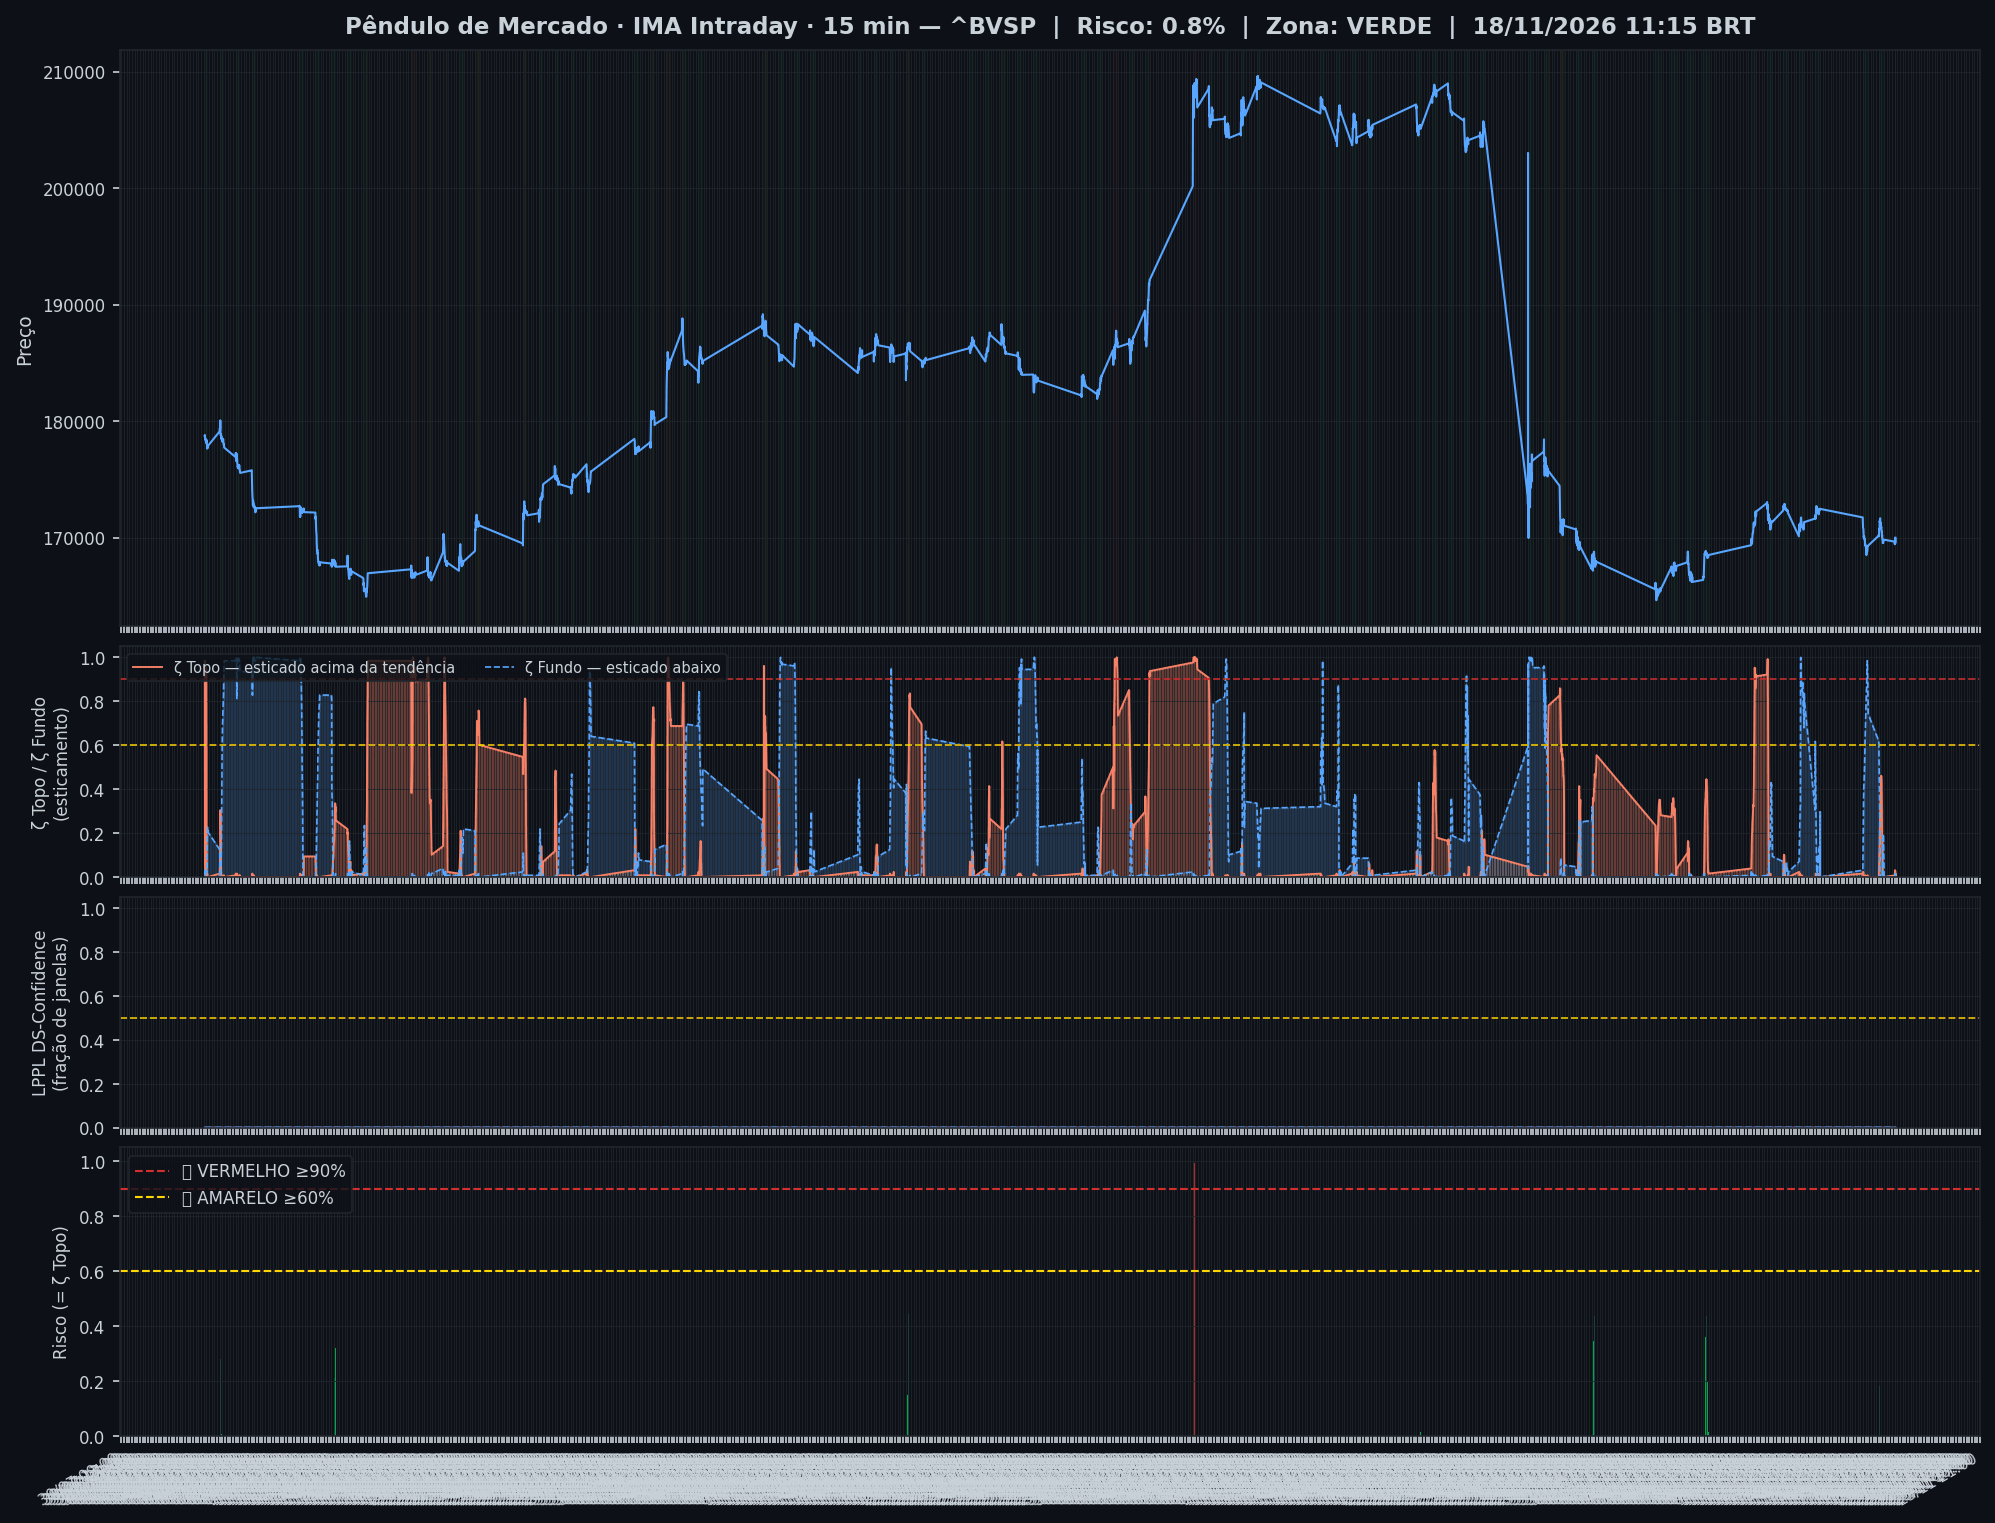
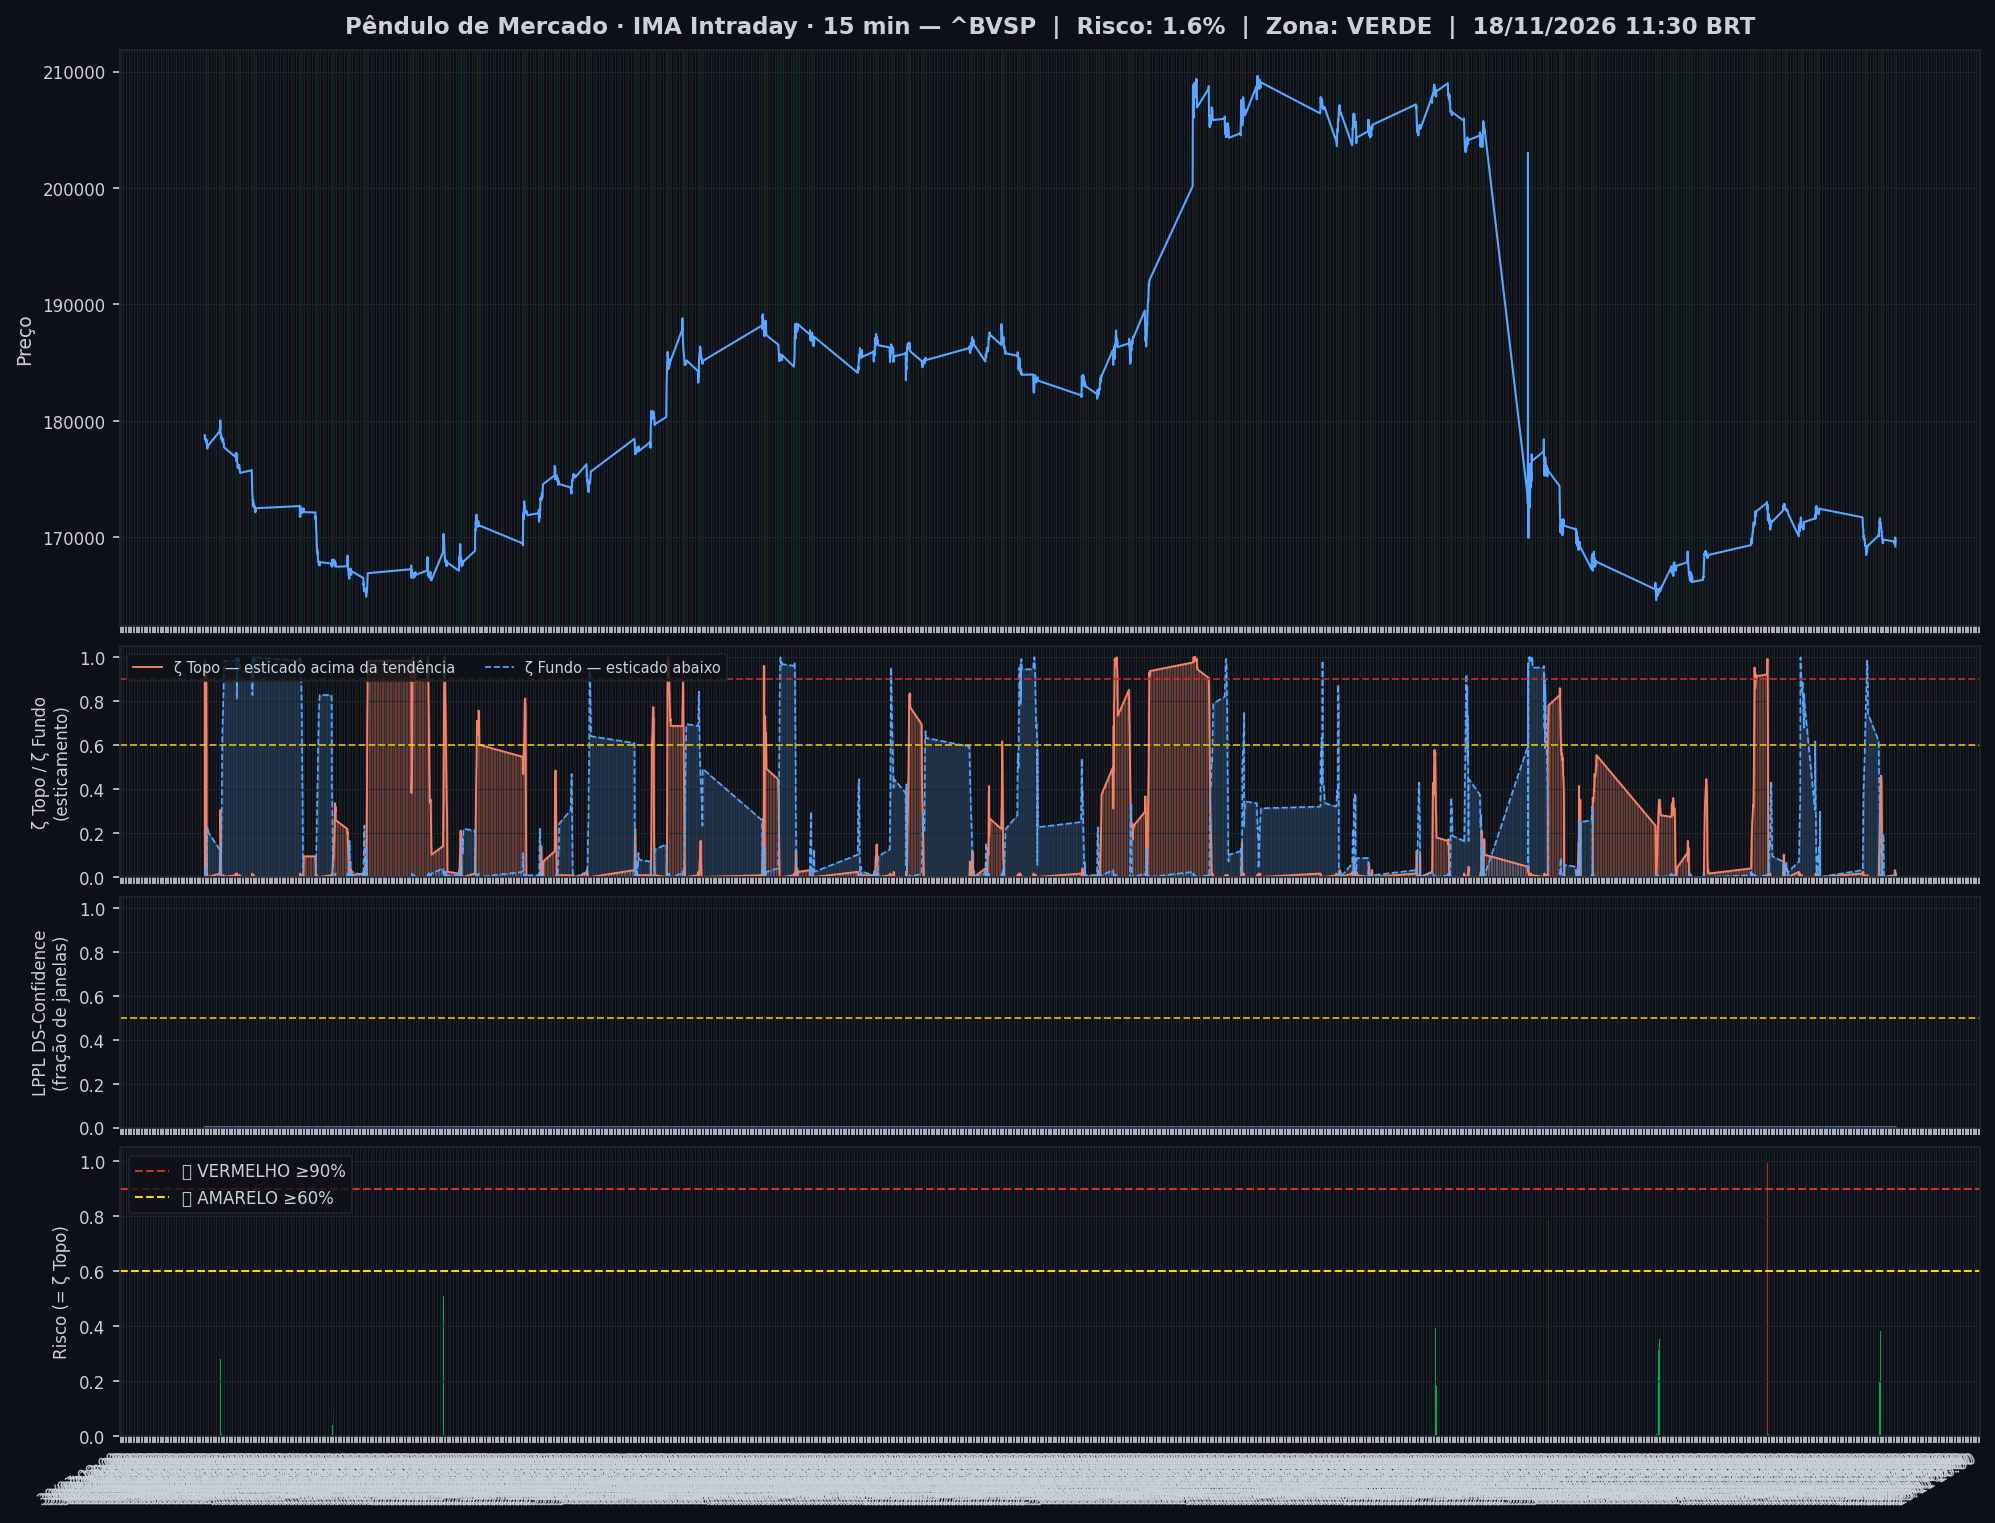
🤖 Auto: Sinal 18/11/2026 11:46

Changed region(s): [[0.0932, 0.432, 0.9634, 0.5863], [0.0311, 0.9258, 0.9945, 0.9875]]

diff --git a/content/intraday/2026-11-18.md b/content/intraday/2026-11-18.md
@@ -1,10 +1,10 @@
 ---
-title: "🟢 Intraday 18/11/2026 11:15 BRT — VERDE"
+title: "🟢 Intraday 18/11/2026 11:30 BRT — VERDE"
 date: 2026-11-18
 tags: [intraday]
 ---
 
-> [!success] Onde o mercado está agora (18/11 11:15, candles de 15 min): **🟢 Calmo**
+> [!success] Onde o mercado está agora (18/11 11:30, candles de 15 min): **🟢 Calmo**
 > `Pânico ◀──────────●──────────▶ Euforia`
 >
 > O Ibovespa está dentro da sua faixa normal, sem excesso para cima nem para baixo.
@@ -20,7 +20,7 @@ tags: [intraday]
 > | 📍 **Sinais** | hoje: nenhum sinal | [abrir](sinais-topo-fundo/) |
 > | 🧪 **Placar ao vivo** | 1 operação(ões), 0 com lucro, soma -0,8% | [abrir](operacoes/) |
 
-> [!success] IMA Intraday · 15 min (18/11 11:15): 🟢 **VERDE** — Risco 1% · ▼ -1 p.p. vs leitura anterior
+> [!success] IMA Intraday · 15 min (18/11 11:30): 🟢 **VERDE** — Risco 2% · ▲ +1 p.p. vs leitura anterior
 > `░░░░░░░░░░░░░░░░░░░░`
 > Preço na faixa normal em torno da tendência.
 
@@ -32,13 +32,13 @@ tags: [intraday]
 >
 > *Leitura educacional baseada em 26 anos de dados, não recomendação. [Como usar](../metodologia/crise#3-como-usar-na-prática).*
 
-| Indicador — IMA Intraday · 15 min (18/11 11:15) | Valor |
+| Indicador — IMA Intraday · 15 min (18/11 11:30) | Valor |
 |---|---|
-| 🔴 ζ Topo — preço esticado acima da tendência | **1%** |
-| 🔵 ζ Fundo — preço esticado abaixo da tendência | 1% |
+| 🔴 ζ Topo — preço esticado acima da tendência | **2%** |
+| 🔵 ζ Fundo — preço esticado abaixo da tendência | 0% |
 | 🫧 LPPL bolha — alta super-exponencial (risco de crash) | 0% |
 | 🫧 LPPL antibolha — queda super-exponencial (risco de repique) | 0% |
-| 📊 Ibovespa | 169.989 pts |
+| 📊 Ibovespa | 169.219 pts |
 
 ![Gráfico do sinal](../graficos/sinal_intraday.png)
 
@@ -46,6 +46,7 @@ tags: [intraday]
 
 | Data | Zona | Evento | Risco | ζ Topo | ζ Fundo | LPPL |
 |---|---|---|---|---|---|---|
+| 2026-11-18 11:30 | 🟢 VERDE |  | **2%** | 2% | 0% | 0% |
 | 2026-11-18 11:15 | 🟢 VERDE |  | **1%** | 1% | 1% | 0% |
 | 2026-11-18 11:00 | 🟢 VERDE |  | **2%** | 2% | 2% | 0% |
 | 2026-11-18 10:45 | 🟢 VERDE |  | **1%** | 1% | 2% | 0% |
@@ -75,52 +76,51 @@ tags: [intraday]
 | 2026-11-17 13:00 | 🟢 VERDE |  | **43%** | 43% | 0% | 0% |
 | 2026-11-17 12:45 | 🟢 VERDE |  | **38%** | 38% | 0% | 0% |
 | 2026-11-17 12:30 | 🟢 VERDE |  | **37%** | 37% | 0% | 0% |
-| 2026-11-17 12:15 | 🟢 VERDE |  | **33%** | 33% | 0% | 0% |
 
 <small>Destaques: 🟡 ≥ 60% · 🔴 ≥ 90% (Risco e ζ Topo) · 🔵 ≥ 60% · 🔪 ≥ 90% (ζ Fundo) · 🫧 ≥ 30% · 🫧🔴 ≥ 50% (LPPL)</small>
 
 ## Monitor Multi-Ativo
 
-**0% dos ativos em tensão** (0🔴 0🟡) · **1 com ζ Fundo alto** — quanto mais ativos disparam juntos, mais confiável o sinal.
+**0% dos ativos em tensão** (0🔴 0🟡) · **2 com ζ Fundo alto** — quanto mais ativos disparam juntos, mais confiável o sinal.
 
 > [!warning] Em destaque no multi-ativo
-> 🔵 **SUZANO S.A.** ζ Fundo 70%
+> 🔵 **PETROBRAS** ζ Fundo 68% · 🔵 **SUZANO S.A.** ζ Fundo 60%
 
 | Zona | Ativo | Setor | ζ Topo | ζ Fundo |
 |---|---|---|---|---|
-| 🟢 | **SUZANO S.A.** | Papel/Celulose | 7.8% | 🔵 **69.5%** |
-| 🟢 | **AMBEV S/A** | Consumo | 0.0% | 56.2% |
-| 🟢 | **PETROBRAS** | Petróleo | 0.0% | 53.9% |
-| 🟢 | **PRIO** | Petróleo | 0.0% | 53.9% |
-| 🟢 | **BRASIL** | Financeiro | 1.6% | 34.4% |
-| 🟢 | **REDE D OR** | Saúde | 34.4% | 0.0% |
-| 🟢 | **ENEVA** | Energia | 0.8% | 32.8% |
-| 🟢 | **LOCALIZA** | Aluguel | 32.0% | 0.8% |
-| 🟢 | **USD/BRL** | Câmbio | 1.6% | 24.2% |
-| 🟢 | **RUMO S.A.** | Outros | 0.0% | 23.4% |
-| 🟢 | **GERDAU** | Siderurgia | 20.3% | 0.8% |
-| 🟢 | **B3** | Financeiro | 0.0% | 19.5% |
-| 🟢 | **WEG** | Industrial | 3.9% | 16.4% |
-| 🟢 | **VIBRA** | Energia | 0.0% | 15.6% |
-| 🟢 | **VALE** | Mineração | 0.8% | 12.5% |
-| 🟢 | **AXIA ENERGIA** | Energia | 0.0% | 11.7% |
-| 🟢 | **BRADESCO** | Financeiro | 10.2% | 0.0% |
-| 🟢 | **BTGP BANCO** | Financeiro | 0.0% | 8.6% |
-| 🟢 | **ULTRAPAR** | Outros | 0.0% | 7.8% |
-| 🟢 | **ITAUUNIBANCO** | Financeiro | 0.8% | 7.0% |
-| 🟢 | **SABESP** | Saneamento | 0.0% | 4.7% |
-| 🟢 | **TELEF BRASIL** | Outros | 0.0% | 4.7% |
-| 🟢 | **EMBRAER** | Outros | 2.3% | 3.9% |
-| 🟢 | **EQUATORIAL** | Energia | 0.0% | 3.1% |
-| 🟢 | **ITAUSA** | Financeiro | 0.0% | 2.3% |
-| 🟢 | **PETROBRAS** | Petróleo | 0.0% | 0.8% |
-| 🟢 | **COPEL** | Energia | 0.8% | 0.8% |
+| 🟢 | **PETROBRAS** | Petróleo | 1.6% | 🔵 **68.0%** |
+| 🟢 | **SUZANO S.A.** | Papel/Celulose | 10.2% | 🔵 **60.2%** |
+| 🟢 | **PRIO** | Petróleo | 0.8% | 55.5% |
+| 🟢 | **AMBEV S/A** | Consumo | 1.6% | 43.8% |
+| 🟢 | **B3** | Financeiro | 0.0% | 39.8% |
+| 🟢 | **ENEVA** | Energia | 0.8% | 33.6% |
+| 🟢 | **REDE D OR** | Saúde | 33.6% | 0.8% |
+| 🟢 | **LOCALIZA** | Aluguel | 33.6% | 0.8% |
+| 🟢 | **USD/BRL** | Câmbio | 0.0% | 25.8% |
+| 🟢 | **GERDAU** | Siderurgia | 23.4% | 0.0% |
+| 🟢 | **RUMO S.A.** | Outros | 0.8% | 22.7% |
+| 🟢 | **VIBRA** | Energia | 0.0% | 18.8% |
+| 🟢 | **VALE** | Mineração | 1.6% | 14.8% |
+| 🟢 | **BRADESCO** | Financeiro | 12.5% | 0.0% |
+| 🟢 | **WEG** | Industrial | 2.3% | 10.2% |
+| 🟢 | **AXIA ENERGIA** | Energia | 0.0% | 9.4% |
+| 🟢 | **BTGP BANCO** | Financeiro | 0.0% | 7.0% |
+| 🟢 | **ULTRAPAR** | Outros | 0.8% | 6.2% |
+| 🟢 | **SABESP** | Saneamento | 0.0% | 5.5% |
+| 🟢 | **EMBRAER** | Outros | 1.6% | 4.7% |
+| 🟢 | **TELEF BRASIL** | Outros | 0.0% | 3.9% |
+| 🟢 | **ITAUUNIBANCO** | Financeiro | 0.8% | 3.1% |
+| 🟢 | **EQUATORIAL** | Energia | 0.8% | 3.1% |
+| 🟢 | **PETROBRAS** | Petróleo | 2.3% | 1.6% |
+| 🟢 | **BRASIL** | Financeiro | 2.3% | 0.0% |
+| 🟢 | **COPEL** | Energia | 1.6% | 0.0% |
+| 🟢 | **ITAUSA** | Financeiro | 0.0% | 0.8% |
 
 <small>Destaques: 🟡 ≥ 60% · 🔴 ≥ 90% (Risco e ζ Topo) · 🔵 ≥ 60% · 🔪 ≥ 90% (ζ Fundo) · 🫧 ≥ 30% · 🫧🔴 ≥ 50% (LPPL)</small>
 
 ![Monitor multi-ativo](../graficos/multi_intraday.png)
 
-*Página atualizada em 18/11/2026 11:30 BRT (leitura da barra de 2026-11-18 11:15 BRT).*
+*Página atualizada em 18/11/2026 11:45 BRT (leitura da barra de 2026-11-18 11:30 BRT).*
 
 > [!warning] O que este indicador não faz
 > Medido em 5 anos de Ibovespa, o ζ **não antecipa** topos nem fundos: a capacidade de separar o que sobe do que cai ficou em 0,49–0,52, e 0,50 é moeda jogada ao ar. Ele descreve o estado de agora; não é aviso do que vem. As zonas verde/amarelo/vermelho continuam na página como descrição desse estado — **não as use como sinal de entrada ou saída**.

diff --git a/content/index.md b/content/index.md
@@ -6,9 +6,9 @@ tags: [home]
 
 **As ondas do mercado, explicadas.** Leitura do Ibovespa com estatística de 26 anos, baseada no trabalho de pesquisadores e traders reconhecidos e adaptada por Jarbas Daniel da Costa.
 
-*Última atualização: 18/11/2026 11:30 BRT · Intraday 15min*
+*Última atualização: 18/11/2026 11:45 BRT · Intraday 15min*
 
-> [!success] Onde o mercado está agora (18/11 11:15, candles de 15 min): **🟢 Calmo**
+> [!success] Onde o mercado está agora (18/11 11:30, candles de 15 min): **🟢 Calmo**
 > `Pânico ◀──────────●──────────▶ Euforia`
 >
 > O Ibovespa está dentro da sua faixa normal, sem excesso para cima nem para baixo.
@@ -20,7 +20,7 @@ tags: [home]
 
 | Módulo | Agora | |
 |---|---|---|
-| 🌊 **Sinal IMA** | 🟢 VERDE · 🟢 calmo · ζ Topo 1% | [relatório](intraday/2026-11-18) |
+| 🌊 **Sinal IMA** | 🟢 VERDE · 🟢 calmo · ζ Topo 2% | [relatório](intraday/2026-11-18) |
 | 📈 **Tendência MME9** | Diário — fora<br>Semanal — fora | [abrir](operacoes/tendencia) |
 | 🎯 **Entradas do método** | ⏳ aguardando: Diário · Semáforo N3 após ζ Fundo | [abrir](operacoes/entradas) |
 | 📍 **Sinais** | hoje: nenhum sinal | [abrir](sinais-topo-fundo/) |
@@ -44,18 +44,18 @@ tags: [home]
 > *Leitura educacional baseada em 26 anos de dados, não recomendação. [Como usar](metodologia/crise#3-como-usar-na-prática).*
 
 > [!info]- 🌊 Detalhes do Sinal IMA (indicadores e últimos 7 pregões)
-> > [!success] IMA Intraday · 15 min (18/11 11:15): 🟢 **VERDE** — Risco 1% · ▼ -1 p.p. vs leitura anterior
+> > [!success] IMA Intraday · 15 min (18/11 11:30): 🟢 **VERDE** — Risco 2% · ▲ +1 p.p. vs leitura anterior
 > > `░░░░░░░░░░░░░░░░░░░░`
 > > Preço na faixa normal em torno da tendência.
 >
 >
-> | Indicador — IMA Intraday · 15 min (18/11 11:15) | Valor |
+> | Indicador — IMA Intraday · 15 min (18/11 11:30) | Valor |
 > |---|---|
-> | 🔴 ζ Topo — preço esticado acima da tendência | **1%** |
-> | 🔵 ζ Fundo — preço esticado abaixo da tendência | 1% |
+> | 🔴 ζ Topo — preço esticado acima da tendência | **2%** |
+> | 🔵 ζ Fundo — preço esticado abaixo da tendência | 0% |
 > | 🫧 LPPL bolha — alta super-exponencial (risco de crash) | 0% |
 > | 🫧 LPPL antibolha — queda super-exponencial (risco de repique) | 0% |
-> | 📊 Ibovespa | 169.989 pts |
+> | 📊 Ibovespa | 169.219 pts |
 >
 > **Multi-ativo:** 0% em tensão (0🔴 0🟡 de 27 ativos)
 >
@@ -63,7 +63,7 @@ tags: [home]
 >
 > | Data | Zona | Risco | ζ Topo | ζ Fundo | LPPL |
 > |---|---|---|---|---|---|
-> | [18/11/2026](intraday/2026-11-18) | 🟢 VERDE | **1%** | 1% | 1% | 0% |
+> | [18/11/2026](intraday/2026-11-18) | 🟢 VERDE | **2%** | 2% | 0% | 0% |
 > | [17/11/2026](intraday/2026-11-17) | 🟢 VERDE | **0%** | 0% | 0% | 0% |
 >
 > <small>Destaques: 🟡 ≥ 60% · 🔴 ≥ 90% (Risco e ζ Topo) · 🔵 ≥ 60% · 🔪 ≥ 90% (ζ Fundo) · 🫧 ≥ 30% · 🫧🔴 ≥ 50% (LPPL)</small>

diff --git a/content/integridade/index.md b/content/integridade/index.md
@@ -5,7 +5,7 @@ description: "O que foi conferido, contra qual fonte e quando — medido na hora
 tags: [integridade]
 ---
 
-*Pregão conferido: **17/11/2026**, com 61 tabelas no acervo · página gerada em 18/11/2026 11:30*
+*Pregão conferido: **17/11/2026**, com 61 tabelas no acervo · página gerada em 18/11/2026 11:45*
 
 O pregão conferido é o último **fechado e arquivado inteiro**, não o de hoje: enquanto o dia corre, só algumas tabelas estão gravadas, e conferir um dia pela metade produziria alarme falso.
 
@@ -22,7 +22,7 @@ Esta página não declara que o site está correto. Ela **mede** e escreve o res
 | Tabelas com conteúdo fora da curva | nenhuma |
 | Páginas publicadas | 353 |
 | Conferências cruzadas das páginas | 71 certas, nenhuma divergência |
-| Página escrita mais recentemente | 18/11 11:30 |
+| Página escrita mais recentemente | 18/11 11:45 |
 | Páginas sem data no cabeçalho | 8 — cegas para a conferência de dado |
 
 ## 1 · Acervo do boletim diário

diff --git a/content/historico.md b/content/historico.md
@@ -5,7 +5,7 @@ tags: [historico]
 
 # 📜 Histórico de leituras (v5)
 
-**2.453 leituras** desde 2026-07-03. Na página ficam os últimos 3 dias leitura por leitura e o resumo de cada dia anterior; o registro inteiro está no arquivo para baixar.
+**2.454 leituras** desde 2026-07-03. Na página ficam os últimos 3 dias leitura por leitura e o resumo de cada dia anterior; o registro inteiro está no arquivo para baixar.
 
 [**Baixar o histórico completo**](historico-completo.csv) (107 KB · abre no Excel e no LibreOffice)
 
@@ -16,6 +16,7 @@ tags: [historico]
 
 | Data | Modo | Zona | Risco | IMA | LPPL |
 |---|---|---|---|---|---|
+| 2026-11-18 11:30 | intraday | 🟢 VERDE | 2% | 2% | 0% |
 | 2026-11-18 11:15 | intraday | 🟢 VERDE | 1% | 1% | 0% |
 | 2026-11-18 11:00 | intraday | 🟢 VERDE | 2% | 2% | 0% |
 | 2026-11-18 10:45 | intraday | 🟢 VERDE | 1% | 1% | 0% |

diff --git a/content/operacoes/ranking.md b/content/operacoes/ranking.md
@@ -5,7 +5,7 @@ tags: [operacoes]
 description: "As regras de compra do site ordenadas pelo resultado, com treino, teste e placar ao vivo"
 ---
 
-*Atualizado 18/11/2026 11:30 · histórico simulado com as regras congeladas em 23/10/2026 + placar ao vivo.*
+*Atualizado 18/11/2026 11:45 · histórico simulado com as regras congeladas em 23/10/2026 + placar ao vivo.*
 
 As regras de compra do site, **da que mais rendeu para a que menos rendeu**. O resultado é por operação, no índice à vista, sem custos e sem juros compostos (a soma é só a soma das operações). **Treino** = entradas de 2001 a 2013 e **teste** = 2014 em diante: uma regra só é confiável se ganhou nos dois. O único resultado sem nenhum ajuste ao histórico é o **placar ao vivo**.
 

diff --git a/content/linha-do-tempo/index.md b/content/linha-do-tempo/index.md
@@ -5,7 +5,7 @@ description: "Todo sinal, ordem, stop e aviso do Pêndulo de Mercado, do mais re
 tags: [eventos]
 ---
 
-*Atualizada 18/11/2026 11:30 BRT · a cada 15 min no pregão e às 19h.*
+*Atualizada 18/11/2026 11:45 BRT · a cada 15 min no pregão e às 19h.*
 
 Tudo o que o sistema fez ou detectou, **do mais recente para o mais antigo**: sinais de topo e fundo, ordens de compra e de venda armadas, compras, vendas, stops, avisos de 🚨 preço perto do nível e mudanças do Sinal IMA. Os **últimos 7 dias** ficam abertos; o resto, por **ano → mês → dia**.
 

diff --git a/content/avisos/index.md b/content/avisos/index.md
@@ -2,7 +2,7 @@
 title: "⚠ Avisos: o que saber antes de usar os números"
 ---
 
-*Gerado em 18/11/2026 11:30*
+*Gerado em 18/11/2026 11:45*
 
 Este site publica muitos números, e cada um tem uma limitação que importa na hora de
 decidir. As limitações estão escritas nas próprias páginas, mas quem chega direto numa
